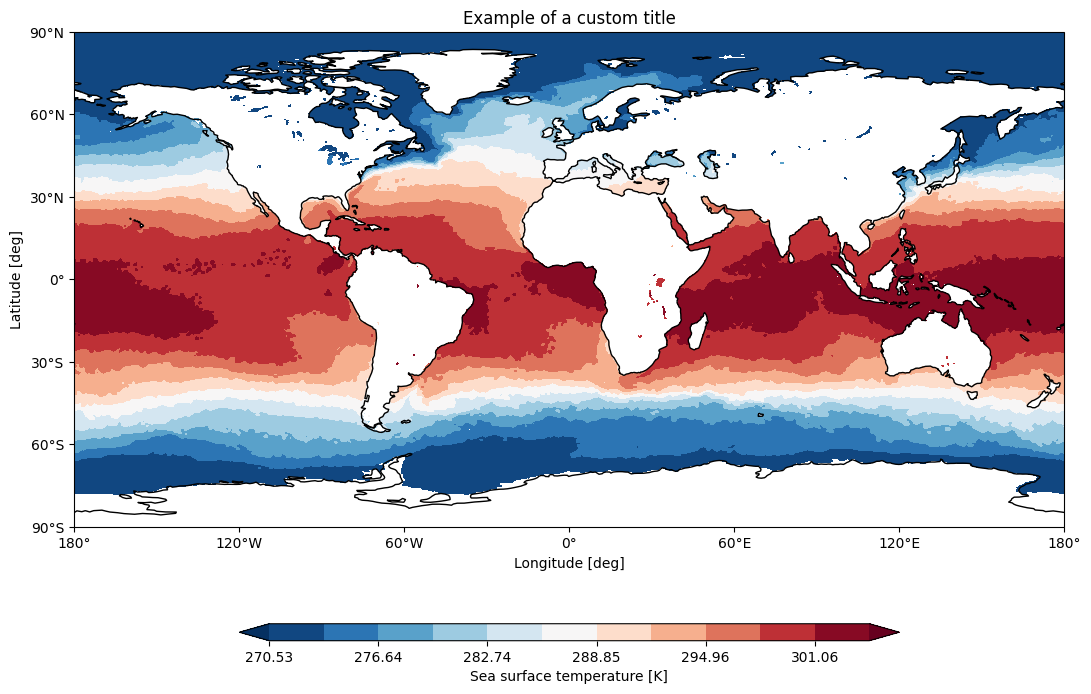
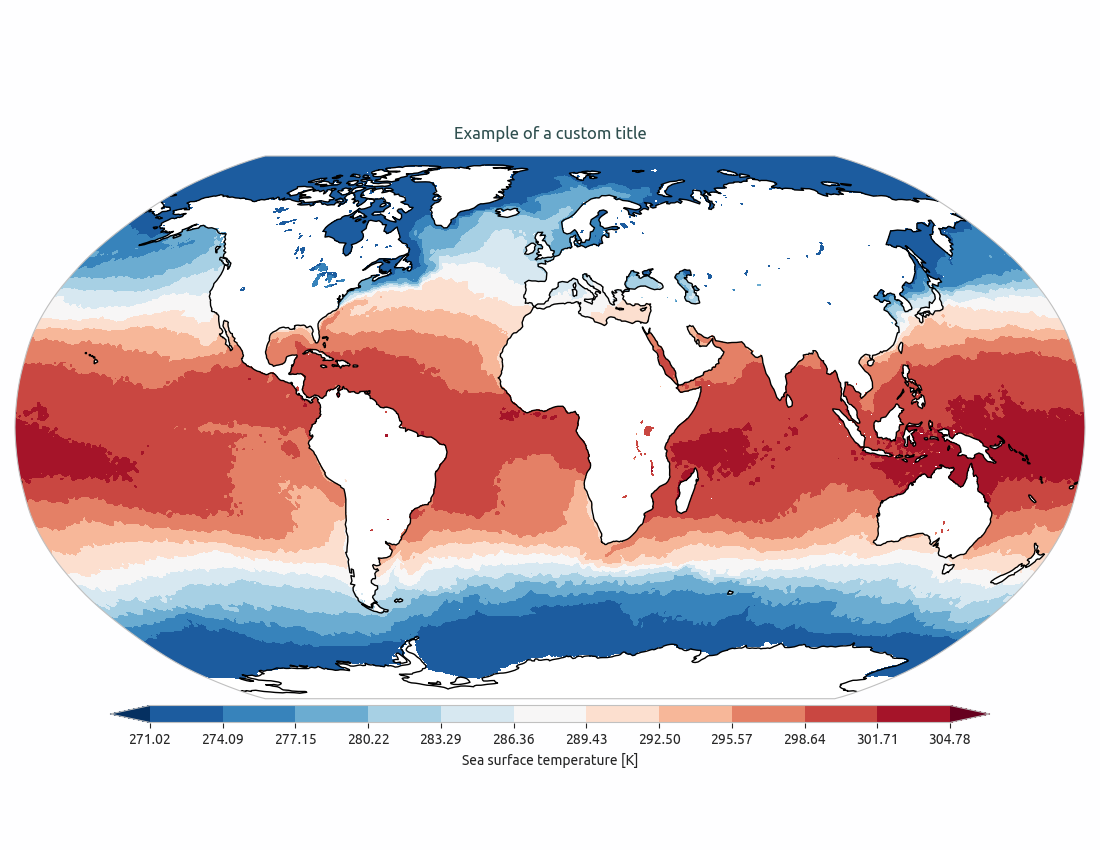
single_map doc update

diff --git a/docs/sphinx/source/other_components.rst b/docs/sphinx/source/other_components.rst
@@ -289,6 +289,9 @@ before calling the function. The function will then plot the map of the variable
 if no other option is provided, will adapt colorbar, title and labels to the attributes
 of the input DataArray.
 
+The function is built on top of the ``cartopy`` and ``matplotlib`` libraries,
+and it is possible to customize the plot with many options, including a different projection.
+
 In the following example we plot an sst map from the first timestep of ERA5 reanalysis:
 
 .. code-block:: python
@@ -296,11 +299,10 @@ In the following example we plot an sst map from the first timestep of ERA5 rean
     from aqua import Reader, plot_single_map
 
     reader = Reader(model='ERA5', exp='era5', source='monthly')
-    sst = reader.retrieve(var=["sst"])
-    sst_plot = sst["sst"].isel(time=0)
+    tos = reader.retrieve(var=["tos"])
+    tos_plot = tos["tos"].isel(time=0)
 
-    plot_single_map(sst_plot, title="Example of a custom title", filename="example",
-                    outputdir=".", format="png", dpi=300, save=True)
+    plot_single_map(tos_plot, title="Example of a custom title")
 
 This will produce the following plot:
 
